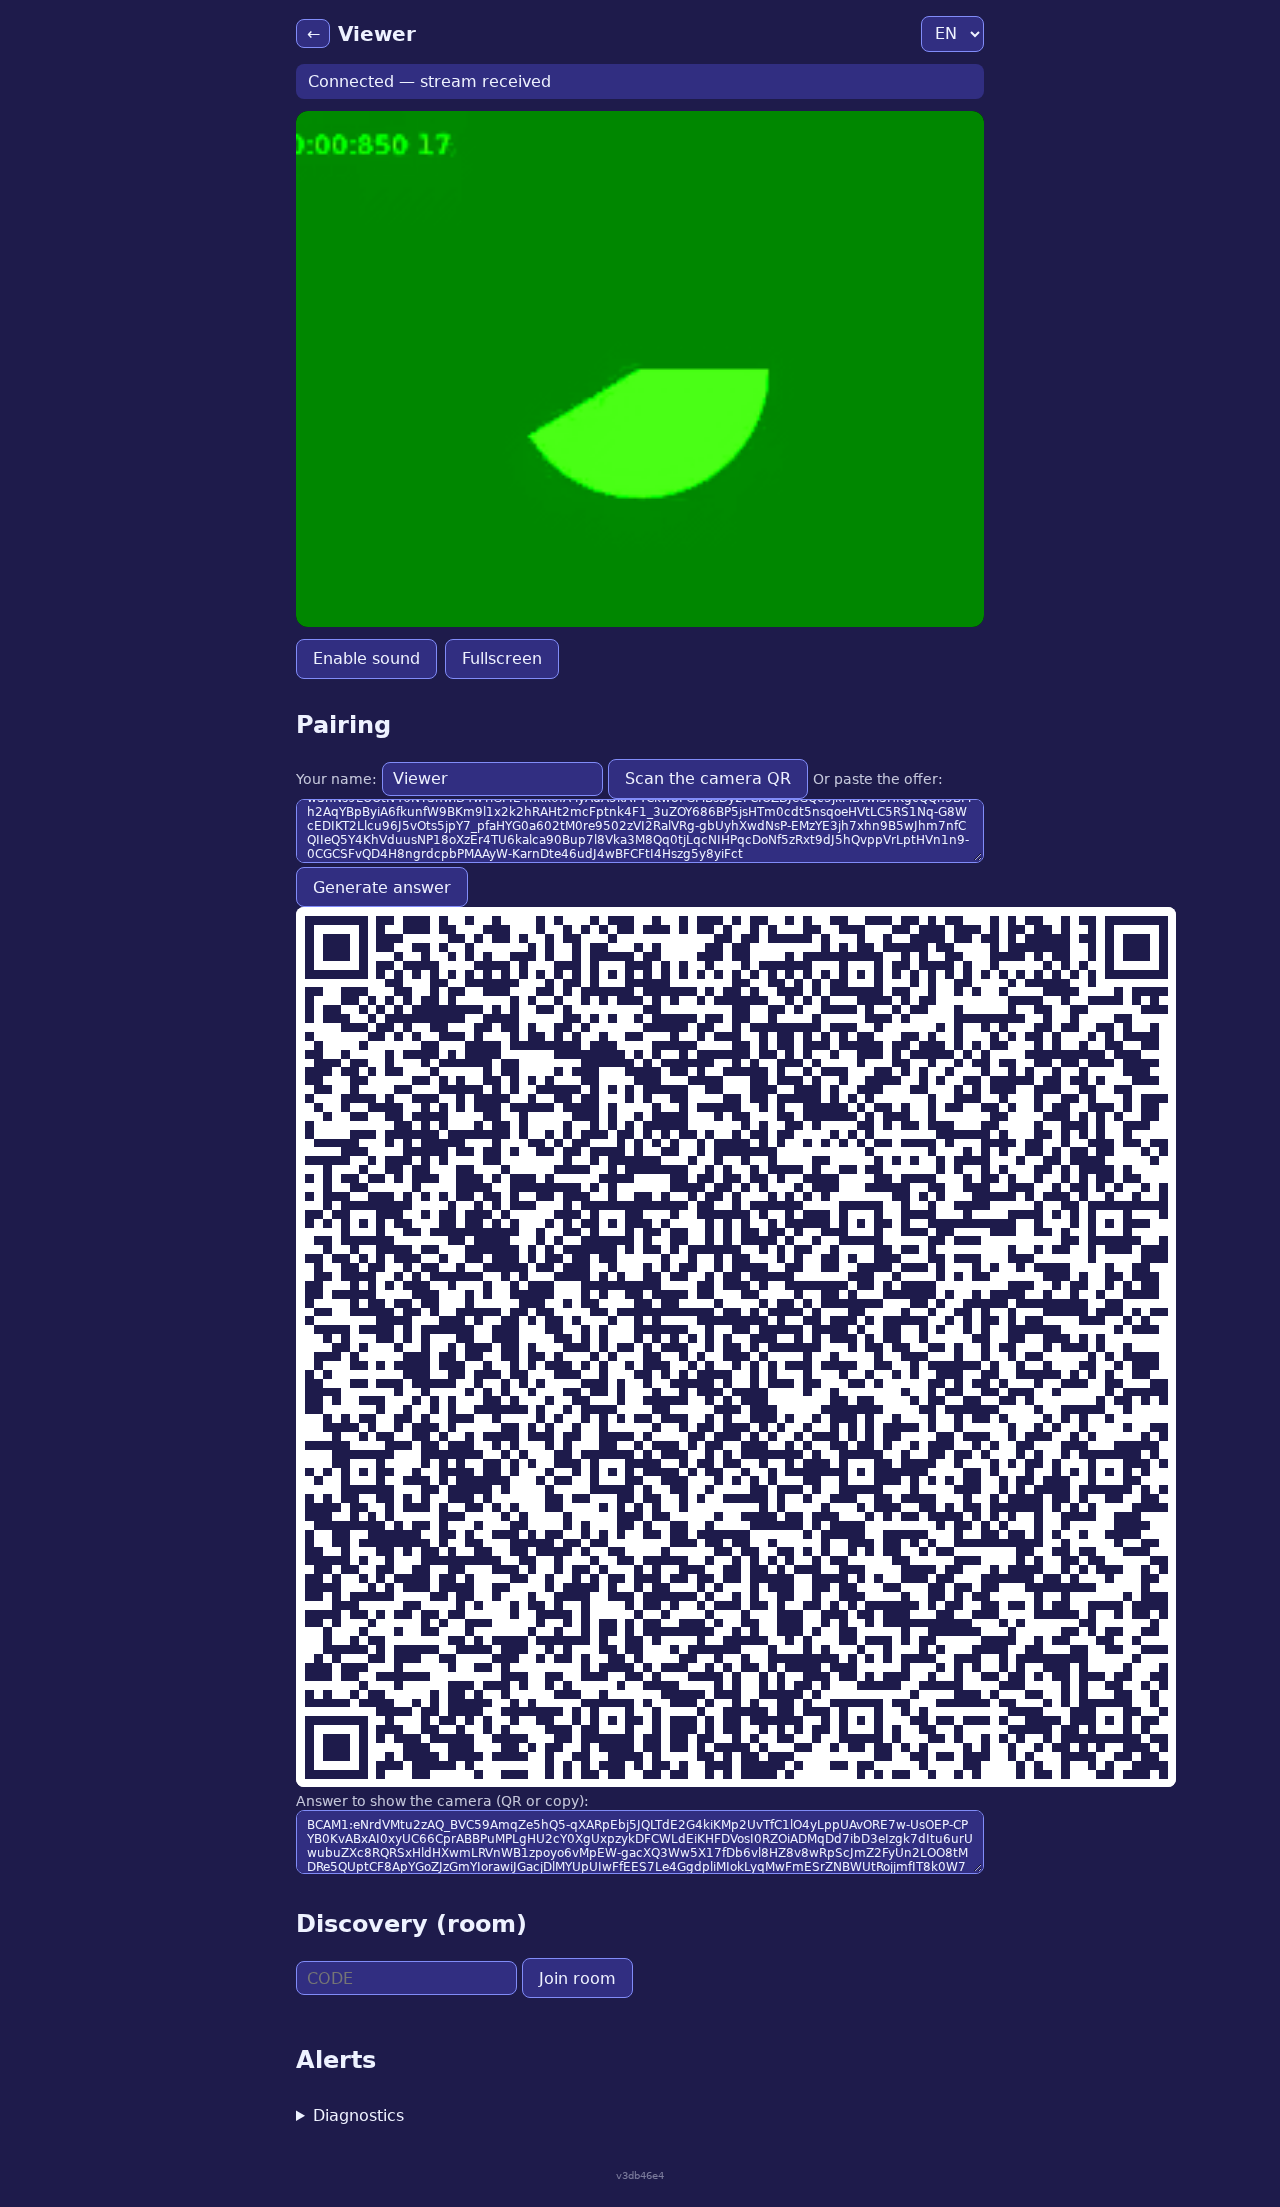
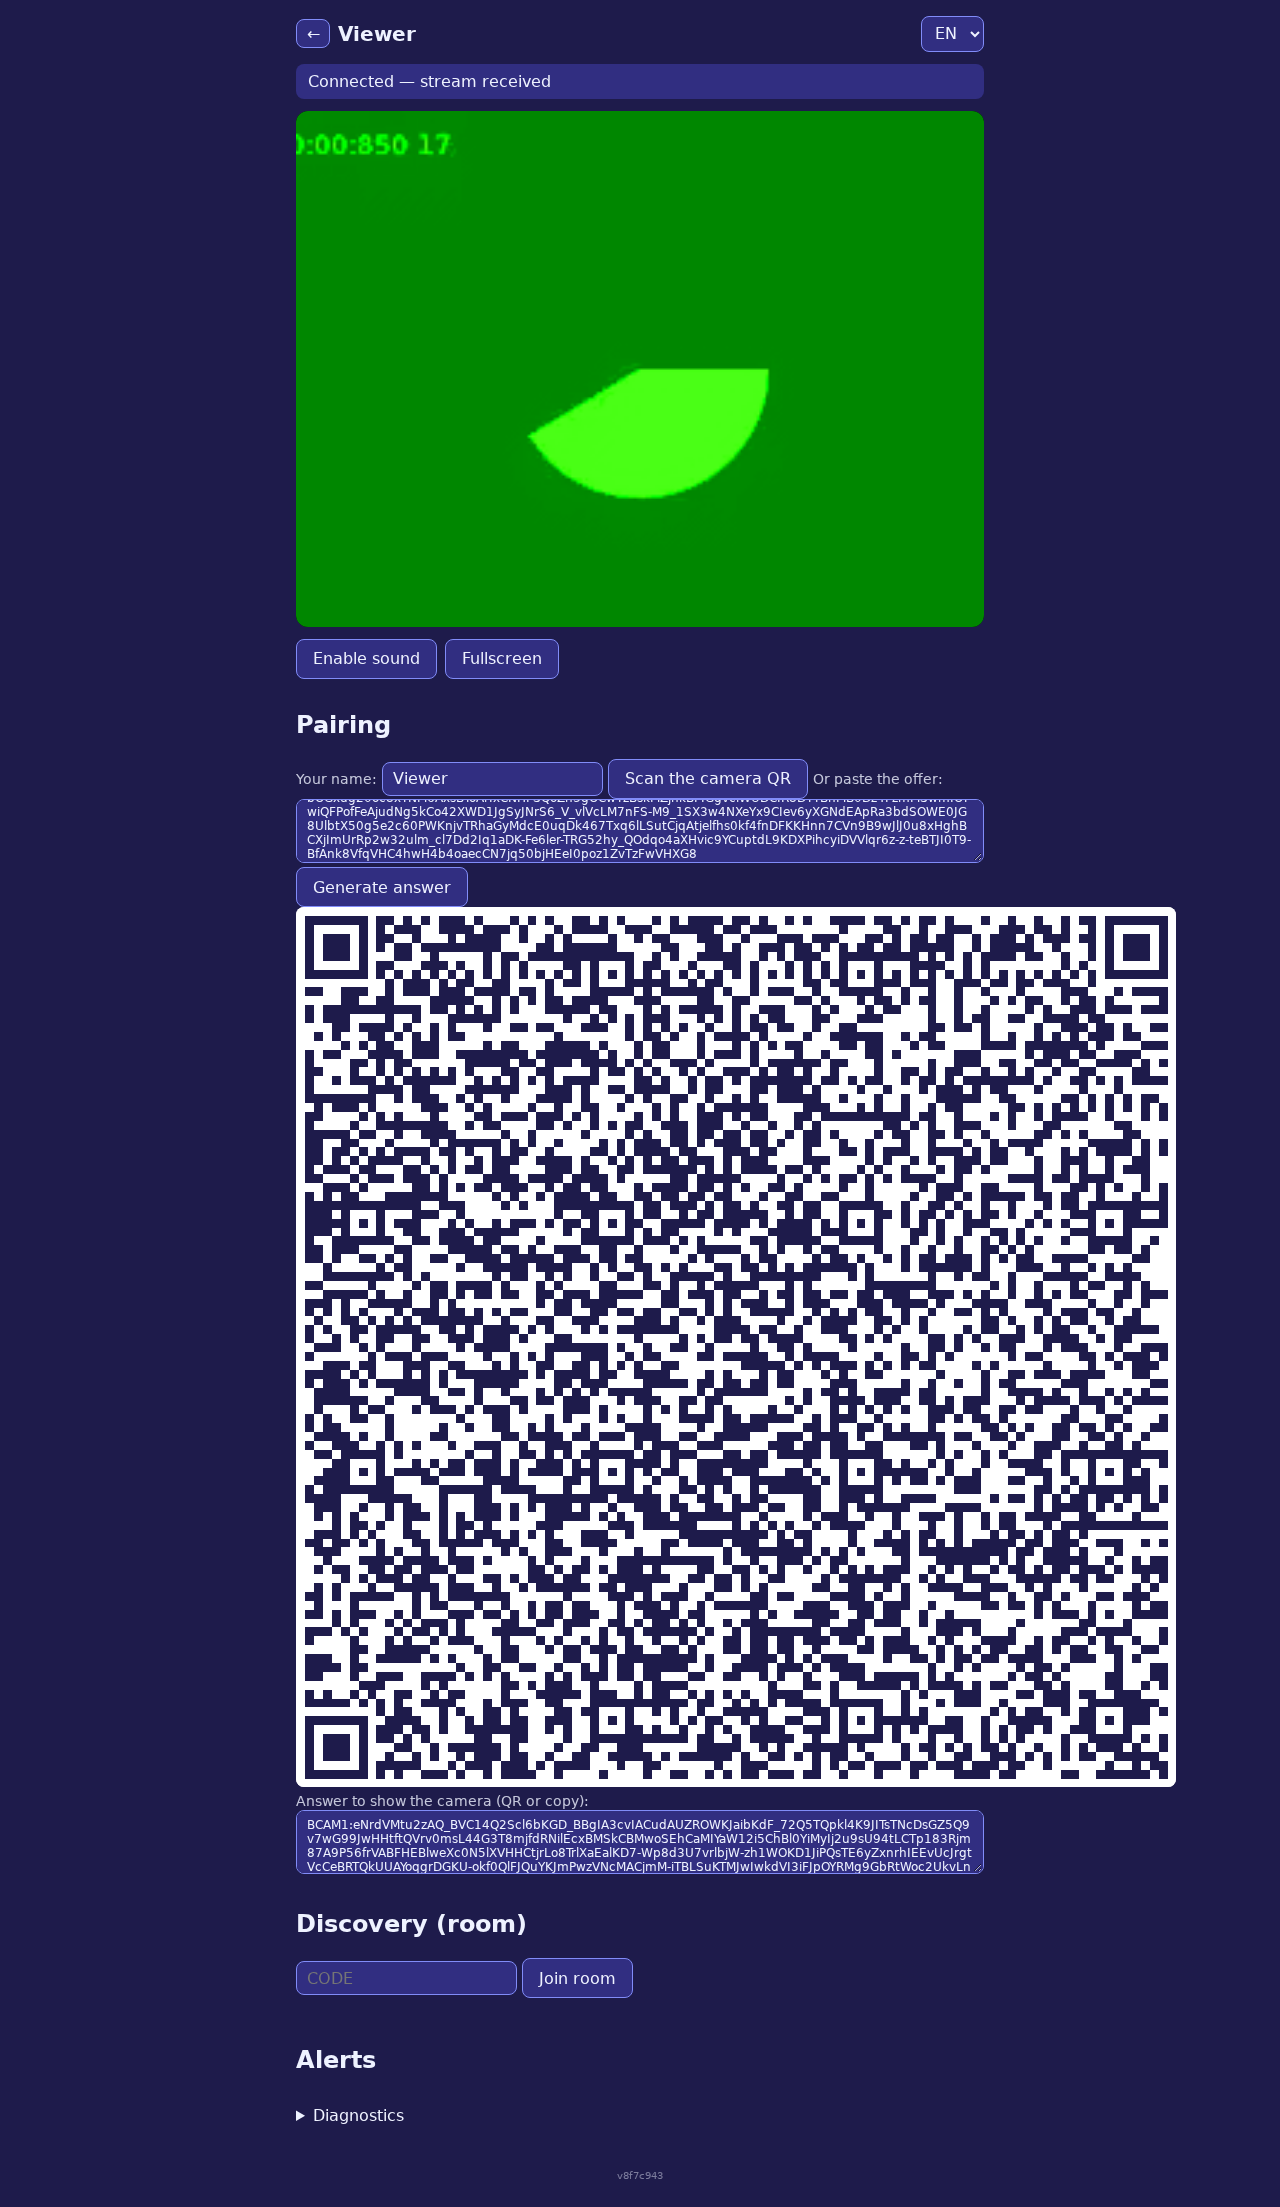
feat(I3.6+): liste déroulante de codec masquée quand un relais est configuré
En mode salon le payload SDP passe par le relais (taille illimitée) : le choix du codec ne sert qu'à alléger le QR local. label[for=video-codec] + #video-codec sont donc cachés dès que relayUrlFromLocation() != null (défaut avec DEFAULT_RELAY_URL), visibles uniquement avec ?relay=0. E2E diag.spec : masquée avec relais, visible en QR local. 45 unitaires + 23/23 E2E.

Changed region(s): [[0.2188, 0.3389, 0.9375, 0.8627]]

diff --git a/e2e/diag.spec.ts b/e2e/diag.spec.ts
@@ -53,6 +53,9 @@ test('I3.6 salon (relais) : trickle ICE, tous les codecs vidéo offerts, panneau
   const mVideo = remoteSdp.split('\r\n').find((l) => l.startsWith('m=video'))!;
   expect(mVideo.split(' ').slice(3).length).toBeGreaterThan(1);
 
+  await expect(cam.locator('#video-codec')).toBeHidden();
+  await expect(cam.locator('label[for="video-codec"]')).toBeHidden();
+
   await cam.locator('#diag').evaluate((d) => {
     (d as HTMLDetailsElement).open = true;
   });
@@ -85,6 +88,8 @@ test('I3.6 QR local (relay=0) : 1 seul codec vidéo dans l offre + diag indique 
   const msg = decodeMessage(payload);
   const mVideo = msg.sdp!.split('\r\n').find((l) => l.startsWith('m=video'))!;
   expect(mVideo.split(' ').slice(3)).toHaveLength(1);
+
+  await expect(cam.locator('#video-codec')).toBeVisible();
 
   await expect(cam.locator('#diag-relay')).toContainText(/désactivé|disabled/i);
   await cam.locator('#diag').evaluate((d) => {

diff --git a/src/pages/camera/main.ts b/src/pages/camera/main.ts
@@ -167,6 +167,15 @@ let currentVideoCodec: string | undefined;
   });
 }
 
+// Le choix du codec ne sert qu'à alléger le QR en mode local (?relay=0) :
+// masqué dès qu'un relais est configuré (mode salon par défaut, payload illimité).
+{
+  const codecLabel = qs<HTMLLabelElement>('label[for="video-codec"]');
+  const hide = relayUrlFromLocation() !== null;
+  codecSel.hidden = hide;
+  codecLabel.hidden = hide;
+}
+
 const pairBtn = qs<HTMLButtonElement>('#pair-btn');
 const qrBox = qs<HTMLDivElement>('#qr-box');
 const qrCanvas = qs<HTMLCanvasElement>('#qr-canvas');

diff --git a/docs/plan.md b/docs/plan.md
@@ -219,6 +219,7 @@ Chaque incrément est petit, testé (unitaires vitest, plus E2E Playwright quand
 - I3.4 : **QR encore plus petit + PWA auto-mise à jour** — slimming SDP supplémentaire (`slimSdpForQr` : lignes `a=ssrc`/`a=msid`/`a=rid:`/`a=simulcast` supprimées, seuls les candidats `udp` + `typ host` conservés) appliqué à l'offre **et** à la réponse QR, QR affiché plus grand (340px) ; service worker : `skipWaiting` + `clientsClaim`, enregistrement manuel avec `updateViaCache: 'none'` + `registration.update()` à chaque chargement + rechargement auto quand un nouveau SW prend le contrôle (un vieux SW en cache ne bloque plus la mise à jour) ; badge `v<hash git>` en bas de chaque page pour vérifier la version déployée ; tests unitaires (slim SDP, `videoMimeFromSdp`) + E2E (payload < 1000 car., 1 seul QR décodé == payload, appairage complet avec SDP allégé, badge) → commit.
 - I3.5 : **relais prod branché** — `DEFAULT_RELAY_URL = 'wss://babycam-relay.veille-cron.workers.dev'` (worker `babycam-relay` déployé via `npx wrangler deploy` dans `relay/`, vérifié vivant : GET → `426 expected websocket`) ; `?relay=0` désactive le relais pour garder les E2E hermétiques (`debugParams()`) ; tests unitaires `relayUrlFromLocation` (param prioritaire, `0` → null, défaut sinon) ; README documente le déploiement du relais → commit.
[1 lines of base64/hex data omitted]
+- I3.6+ : **liste déroulante codec masquée en mode salon** — `label[for=video-codec]` + `#video-codec` cachés dès qu'un relais est configuré (`relayUrlFromLocation() !== null`) ; visibles uniquement en mode QR local (`?relay=0`) où le codec allège le QR ; E2E : masquée avec relais, visible avec `relay=0` → commit.
 - Notifications push (hors 100 % statique), enregistrement d'extraits sur alerte, audio bidirectionnel, zone d'intérêt pour le mouvement.
 
 ## 14. Tests
